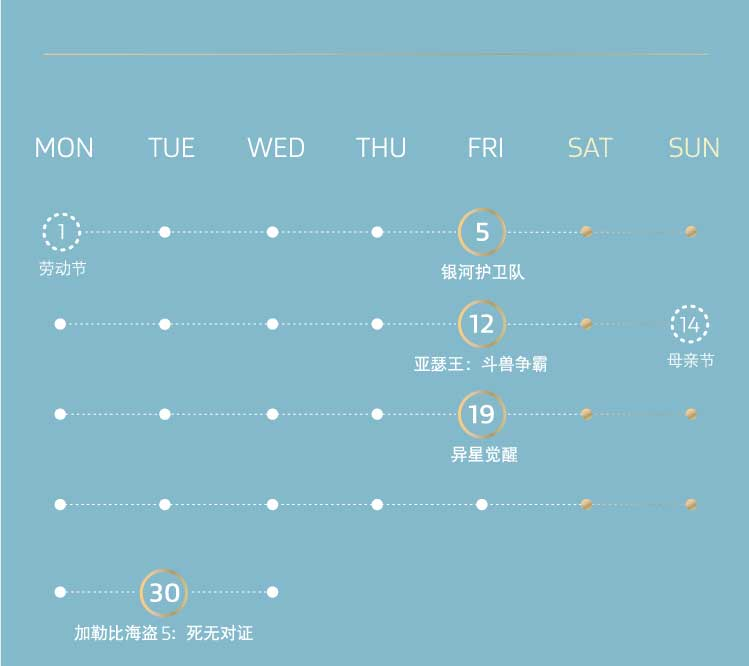
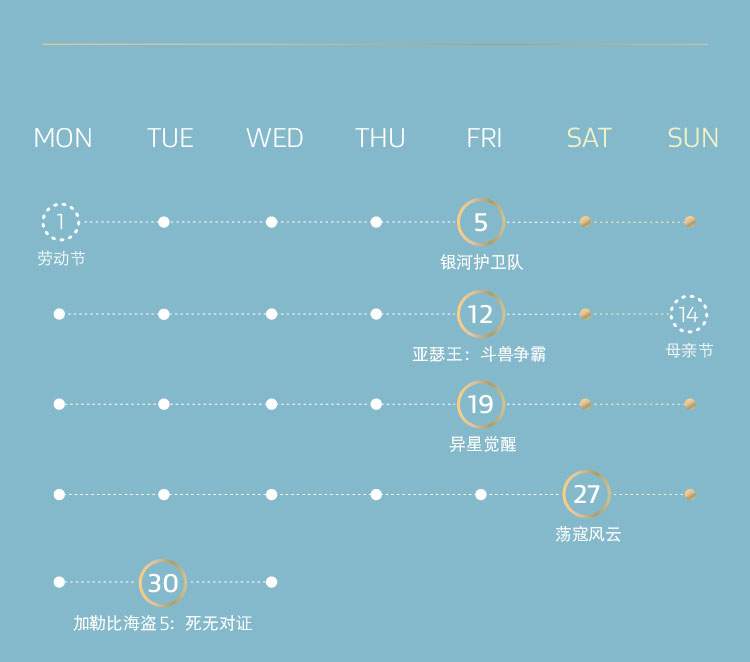
add new

diff --git a/views/next_5.html b/views/next_5.html
@@ -1,0 +1,68 @@
+<!DOCTYPE html>
+<html>
+<head>
+	<meta charset="UTF-8">
+	<title>杜比影院 5 月片单</title>
+	<meta name="keywords" content="">
+	<meta name="description" content="你所需要了解的一切，从这里寻找。">
+	<meta name="viewport" content="width=device-width, initial-scale=1, maximum-scale=1.0, user-scalable=0">
+	<meta content="telephone=no" name="format-detection">
+	<meta name="apple-mobile-web-app-capable" content="no">
+	<script type="text/javascript" src="../scripts/zepto.js"></script>
+	<script type="text/javascript" src="../scripts/touch.js"></script>
+	<script type="text/javascript" src="../scripts/fastclick.js"></script>
+	<link rel="stylesheet" type="text/css" href="../styles/common.css">
+	<script type="text/javascript" src="../scripts/rem.js"></script>
+	<script type="text/javascript" src="../scripts/zymedia.js"></script>
+	<link rel="stylesheet" type="text/css" href="../styles/zymedia.css">
+	<link rel="stylesheet" type="text/css" href="../styles/next.css">
+	<script type="text/javascript" src="../scripts/next.js"></script>
+	<div id='wx_pic' style='margin:0 auto;display:none;'>
+        <img src="../images/weixinicon.jpg">
+    </div>
+    <style>
+        .video{
+            background-image: url("../images/n5/nextvideo_2.jpg");
+            width: 100%;
+            background-size: cover;
+        }
+        .jincai{
+            background-image: url("../images/n1/jincai.jpg");
+            width: 100%;
+            height: 6.2rem;
+            background-size: cover;
+        }
+    </style>
+</head>
+<body>
+	<div>
+		<div class="back"><img src="../images/icon_2.png"></div>
+		<div class="btm"><img src="../images/btm.png"></div>
+        <div class="nexttop reveal topC">
+            <div class="tocT">
+                <img src="../images/n5/nexttext_2.png" class=" nexttext" data-reveal-item='{"order":0}'>
+            </div>
+            <div class="topB">
+                <img src="../images/n5/nextback_2.png"  class=" nextback" data-reveal-item='{"order":1}'>
+            </div>
+        </div>
+		<!--<div class="nexttop">-->
+			<!--<img src="../images/n5/nextback_2.png" class="nextback">-->
+			<!--<img src="../images/n5/nexttext_2.png" class="nexttext">-->
+		<!--</div>-->
+		<div class="playvideo">
+			<div class="zy_media">
+		    	<video class="video" data-config='{"mediaTitle": "荡寇风云"}' webkit-playsinline playsinline>
+					<source src="../video/nextvideo_5.mp4" type="video/mp4">
+					您的浏览器不支持HTML5视频
+			   	</video>
+			</div>
+			<!--<div id="modelView"><img src="../images/video.png"></div>-->
+		</div>
+        <div class="jincai"></div>
+		<!-- <img src="../images/nextimg_2.jpg" class="img100"> -->
+		<img src="../images/n5/nextimg2_2.jpg" class="img100">
+		<img src="../images/n5/nextimg_4_2.jpg" class="img100 gohome">
+	</div>
+</body>
+</html>

diff --git a/index.html b/index.html
@@ -559,6 +559,11 @@
         <img src="images/index55b.jpg" class="img100" alt="">
         <span class="flash3"><img src="images/icon_1.png"></span>
     </a>
+    <a href="views/next_5.html"
+       class="link">
+        <img src="images/index57b.jpeg" class="img100" alt="">
+        <span class="flash4"><img src="images/icon_1.png"></span>
+    </a>
     <a href="views/next_4.html"
        class="link">
         <img src="images/index56b.jpg" class="img100" alt="">
